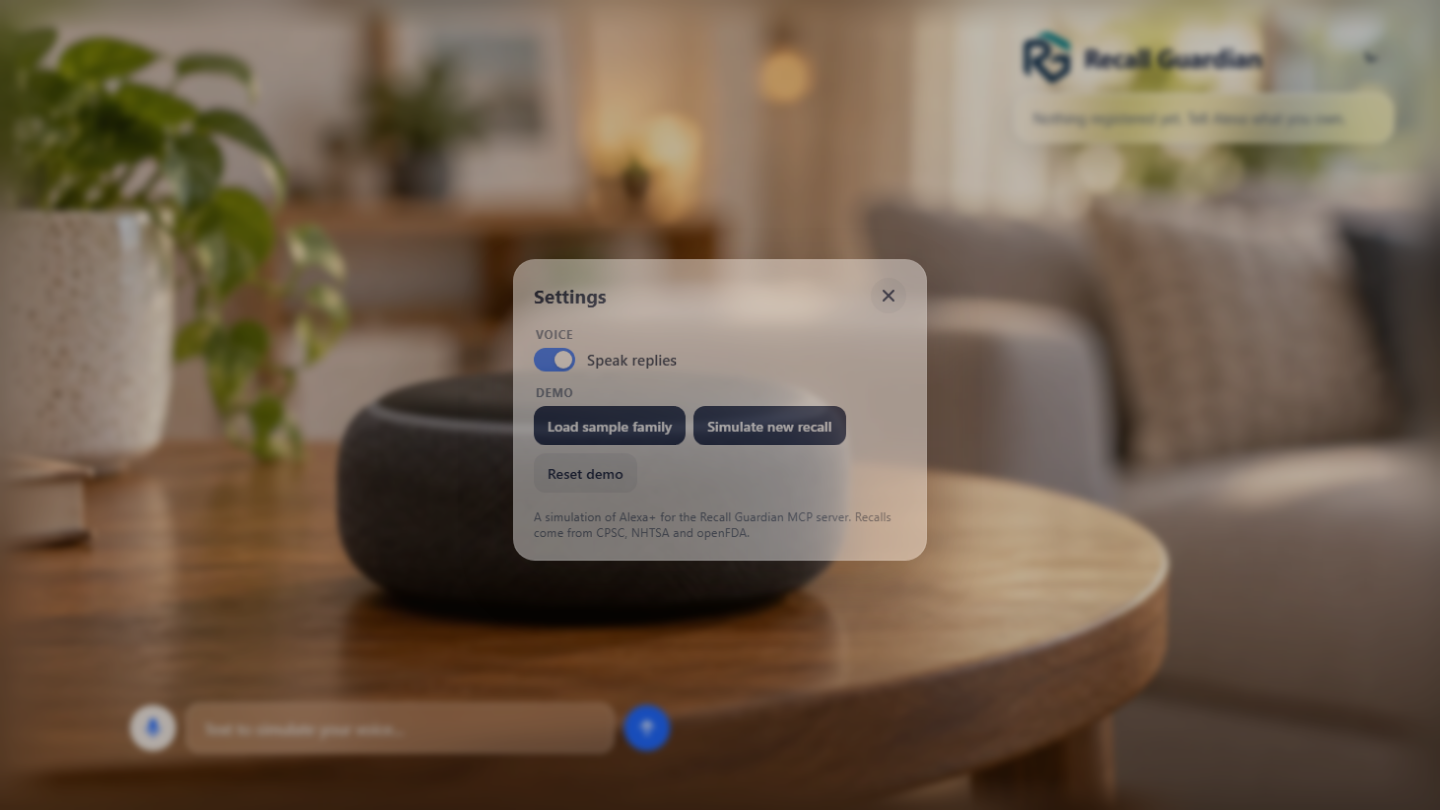
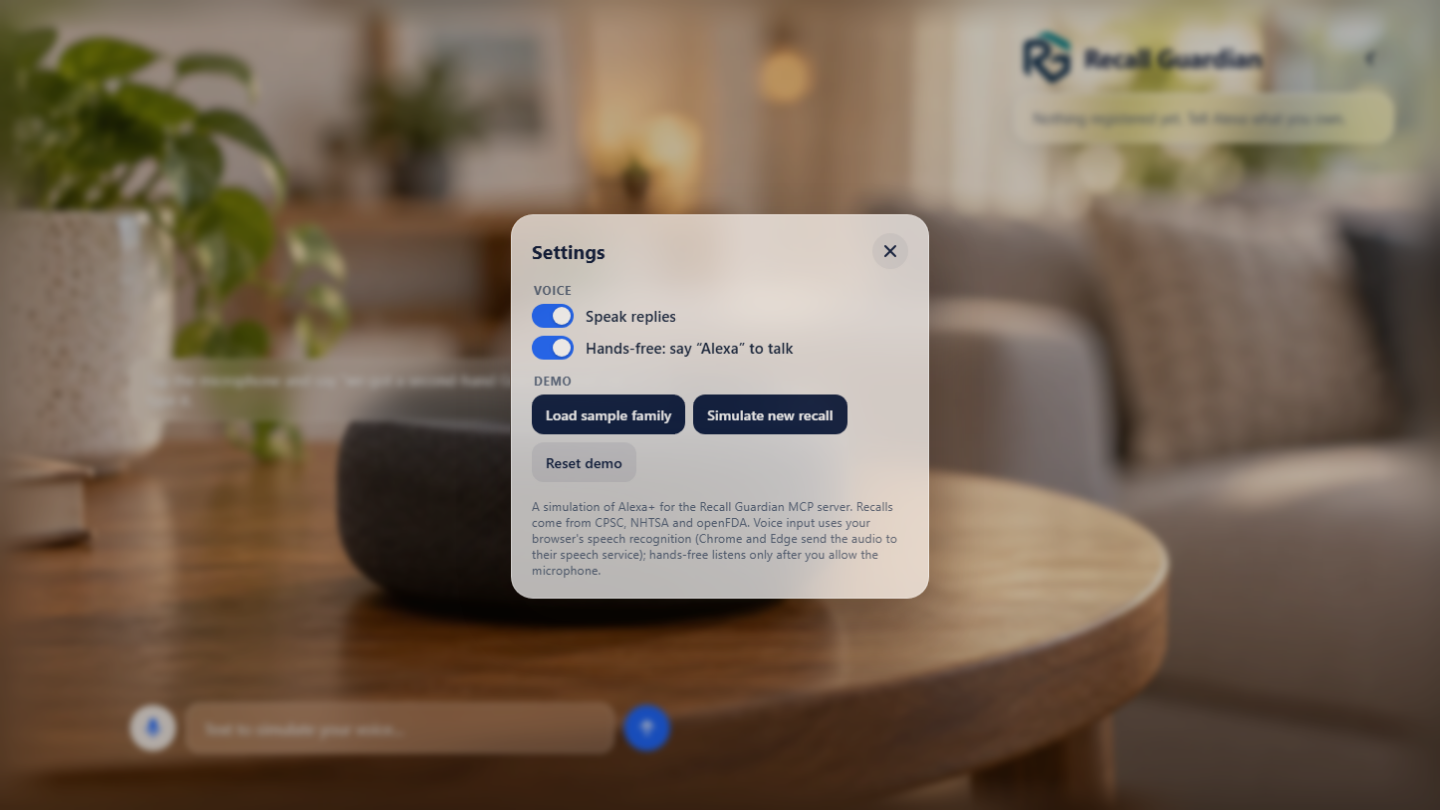
T9.12, T9.15, T9.16: demo story verified live (misheard brand, allergy, proactive), prompt passes odd brands to the server, CPSC 2026 copy refreshed; screenshots and progress

Changed region(s): [[0.25, 0.2469, 0.6562, 0.7407], [0.0938, 0.4321, 0.2188, 0.5247]]

diff --git a/packages/simulator/src/agent.ts b/packages/simulator/src/agent.ts
@@ -7,7 +7,7 @@ You have tools to keep a household inventory and to check it against official pr
 This is a web simulation of Alexa+ made to try the Recall Guardian skill. Behave like a normal Alexa: friendly small talk, greetings, thanks and "what can you do" get a natural short answer. You cannot play music, set timers, control devices, shop, or look up news, weather or the time here. For those, and for any other off-topic request, answer in one short polite sentence (a well-known general fact is fine), then add that this is a simulation for trying Recall Guardian and offer what you can do, for example "Tell me about something your family owns and I'll watch it for recalls."
 Rules:
 - When the user mentions something they own (car seat, heater, stroller...), register it with add_item. Ask only for what is missing (brand, then model number), one question at a time. If they do not know the model, say where the sticker usually is, or accept an approximate year. When they tell you a detail later, use update_item. Once brand and model (or year) are known, add_item and update_item already check recalls and return a status: report it right away, do not call check_item again.
-- Brand names are often misheard by speech recognition and arrive as odd words, a date or another product ("8th June", "iTunes"). When you asked who makes something, treat the answer as the brand even if it looks strange, and pass it to update_item exactly as heard; never ask again on your own, the tool checks it by sound. When a tool asks "do you mean <brand>, <spelling>?", ask exactly that, with the spelling. If the user says yes, call update_item with that brand. If they spell the brand letter by letter, pass the letters exactly as heard (for example "A I T J U N Z"); the tool joins them.
+- Brand names are often misheard by speech recognition and arrive as odd words, a date or another product ("8th June", "iTunes"). When you asked who makes something, treat the answer as the brand even if it looks strange, and pass it to update_item exactly as heard; never ask again or spell it back on your own, the tool checks it by sound. Example: you asked "who makes the dresser?", the user says "It's an 8th June" -> call update_item with brand "8th June" right away, then say what the tool says. When a tool asks "do you mean <brand>, <spelling>?", ask exactly that, with the spelling. If the user says yes, call update_item with that brand. If they spell the brand letter by letter, pass the letters exactly as heard (for example "A I T J U N Z"); the tool joins them.
 - Food and medicine count too (peanut butter, ice cream, baby formula, ibuprofen...): register them with brand and product. Food and drug recalls are confirmed only by the lot or date code on the package, so ask for it when a tool does.
 - When the user mentions a food allergy ("Leo is allergic to peanuts"), save it with update_allergies. If a tool result has an allergy_note, say it: it tells whether the recall matters for this family. For "any recent peanut recalls?", use recent_allergen_recalls.
 - To check one product use check_item; to check everything they own use check_household. Only say something is recalled when the tool status is "recalled". If the status is "need_info", ask the question the tool gives, in your own short words. If it is "outside_period", explain that it does not look affected and invite a correction. If it is "no_recall", say so calmly. If it is "source_unavailable", never say it is clear: say you could not reach the recall database right now and will check again.

diff --git a/PROGRESS.md b/PROGRESS.md
@@ -3,38 +3,28 @@
 _Last updated: 2026-10-03_
 
 ## Current task
-Phase 9, group D: T9.15 strict judge review (docs/judge-review.md), then fix the top weaknesses. T9.12 is open
-only for its demo part (food/allergy moment in docs/video-script.md, done inside T9.15). T9.16 is waiting on the
-CPSC backfill run on the deployed watcher.
+None open in Phases 0-9. Remaining: human steps (below) and stretch S1-S3.
 
 ## Done (Phase 9)
-- A (T9.1-T9.3) live panel update, scrollable chat, no greeting; B (T9.4-T9.8) mockup-faithful UI; C (T9.9-T9.11)
-  phonetic brand matching in the MCP server, hands-free wake word, limited-Alexa persona. All deployed.
-- T9.12 code: live openFDA lookup, family allergies (`update_allergies`, `recent_allergen_recalls`, allergy notes),
-  allergy alerts shown red and announced in the simulator.
-- T9.13 blind challenge set: docs/matcher-results.md ("Challenge set").
-- T9.16 code: honest `source_unavailable`, product-word cache index, CPSC backfill (recall-date windows, split on
-  failure), cache covers CPSC outages.
-
-## Left
-- T9.15 judge review + fixes; T9.12 demo moment; T9.16: confirm the backfill finished (watcher logs: a line with
-  `"skippedDays"`), then live-check a CPSC lookup while CPSC is down (or at least that the cache answers).
-- Deploy after D and give the human the URL.
+- A (T9.1-T9.3), B (T9.4-T9.8), C (T9.9-T9.11), D (T9.12-T9.16): all deployed and verified
+  (`npm run e2e:deployed`, 413 tests). The new demo story (misheard "Aitjunz" dresser, Mercer's ice cream +
+  peanut allergy, simulated car-seat recall) was dry-run against the deployed system with real Claude.
+- CPSC copy in the recall cache: 2026 loaded and fresh (cursor 2026-10-03); a full 2008+ local backfill was
+  started (`scripts/backfill-cpsc-local.mjs`); if older years are missing, rerun it (idempotent).
 
 ## Next step
-Check the local backfill finished (`node scripts/backfill-cpsc-local.mjs 2008-01-01` prints a JSON line; rerun it if not, it is idempotent and sets the CPSC cursor). Then re-run the demo dry run (docs/video-script.md lines) against the deployed simulator and fix what differs; then mark T9.12, T9.15, T9.16 done.
-
-
+If continuing: stretch S1 (per-household OAuth) is the top remaining judge weakness (docs/judge-review.md #6).
+Keep the CPSC copy fresh: if the daily CPSC sync from Lambda keeps failing (F19), run
+`npm run build && node scripts/backfill-cpsc-local.mjs 2026-09-01` weekly before judging.
 
 ## Facts a fresh session needs
-- Deployed URLs: stack outputs of `RecallGuardianStack` (SimulatorUrl, McpUrl). Simulator:
-  https://6aqlg4s33zg7tgjhoqsetxjqyi0pctry.lambda-url.us-east-1.on.aws/
+- Simulator: https://6aqlg4s33zg7tgjhoqsetxjqyi0pctry.lambda-url.us-east-1.on.aws/ (stack `RecallGuardianStack`).
 - Deploy: `cd infra && npm run deploy`. Verify: `npm run e2e:deployed`. Live Claude tests: `npm run test:live`.
-- After changing `packages/simulator/public/*`: `node scripts/embed-ui.mjs` (a test checks it). Images:
-  `node scripts/build-images.mjs`. Screenshots: `node scripts/shoot-simulator.mjs <url> docs/images`.
+- After changing `packages/simulator/public/*`: `node scripts/embed-ui.mjs`. Screenshots:
+  `node scripts/shoot-simulator.mjs <url> docs/images`.
 - Edits with backslashes: use the Edit/Write tools, not shell heredocs or `node -e` strings (F7).
 - `npm run lint` includes Prettier; run `npm run format` first.
 
 ## Human steps
-docs/manual-checklist.md: voice check in Chrome (now also hands-free "Alexa"), record video, flip repo public
-(T7.2), fill Devpost.
+docs/manual-checklist.md: voice check in Chrome/Edge (hands-free, misheard brand), Firefox and phone checks,
+record the video (docs/video-script.md), flip repo public (T7.2), fill Devpost (docs/devpost-submission.md).

diff --git a/TASKS.md b/TASKS.md
@@ -85,8 +85,8 @@ Target: thin end-to-end slice (Phase 1) working by ~day 7 (Oct 8), then widen.
 - [x] T9.10 Hands-free mode: continuous listening after one mic permission, wake word "Alexa", silence detection ends the request, paused while Alexa speaks, auto-restart when Chrome stops recognition; tap-to-talk fallback; clear message without speech recognition. **Done when:** browser tests with a stubbed recognizer pass.
 - [x] T9.11 Persona: normal but limited Alexa; off-topic requests get a brief polite answer plus a reminder that this is a Recall Guardian simulation. **Done when:** prompt updated and tested (mock brain + one live check). Then deploy C and share the URL.
 ### D. Polish to win
-- [ ] T9.12 Food and medicine recalls (openFDA) live lookup + matching against family allergies (undeclared-allergen recalls); food recall moment in the demo if it fits in 3 minutes.
+- [x] T9.12 Food and medicine recalls (openFDA) live lookup + matching against family allergies (undeclared-allergen recalls); food recall moment in the demo if it fits in 3 minutes.
 - [x] T9.13 Harder hand-checked evaluation set (hard negatives, misspellings, vague descriptions, partial model numbers); honest numbers and failure modes in docs/matcher-results.md.
 - [x] T9.14 Clean up PROGRESS.md.
-- [ ] T9.15 Strict judge review (docs/rules.md criteria) → docs/judge-review.md, weaknesses ranked by score impact; fix the most important ones.
-- [ ] T9.16 Resilience to CPSC outages (seen 2026-10-03: the API answered HTTP 503 for hours): report "could not reach" instead of "no recalls" (done with T9.1), and backfill recent CPSC recalls into the DynamoDB recall cache so lookups keep working while CPSC is down.
+- [x] T9.15 Strict judge review (docs/rules.md criteria) → docs/judge-review.md, weaknesses ranked by score impact; fix the most important ones.
+- [x] T9.16 Resilience to CPSC outages (seen 2026-10-03: the API answered HTTP 503 for hours): report "could not reach" instead of "no recalls" (done with T9.1), and backfill recent CPSC recalls into the DynamoDB recall cache so lookups keep working while CPSC is down.
